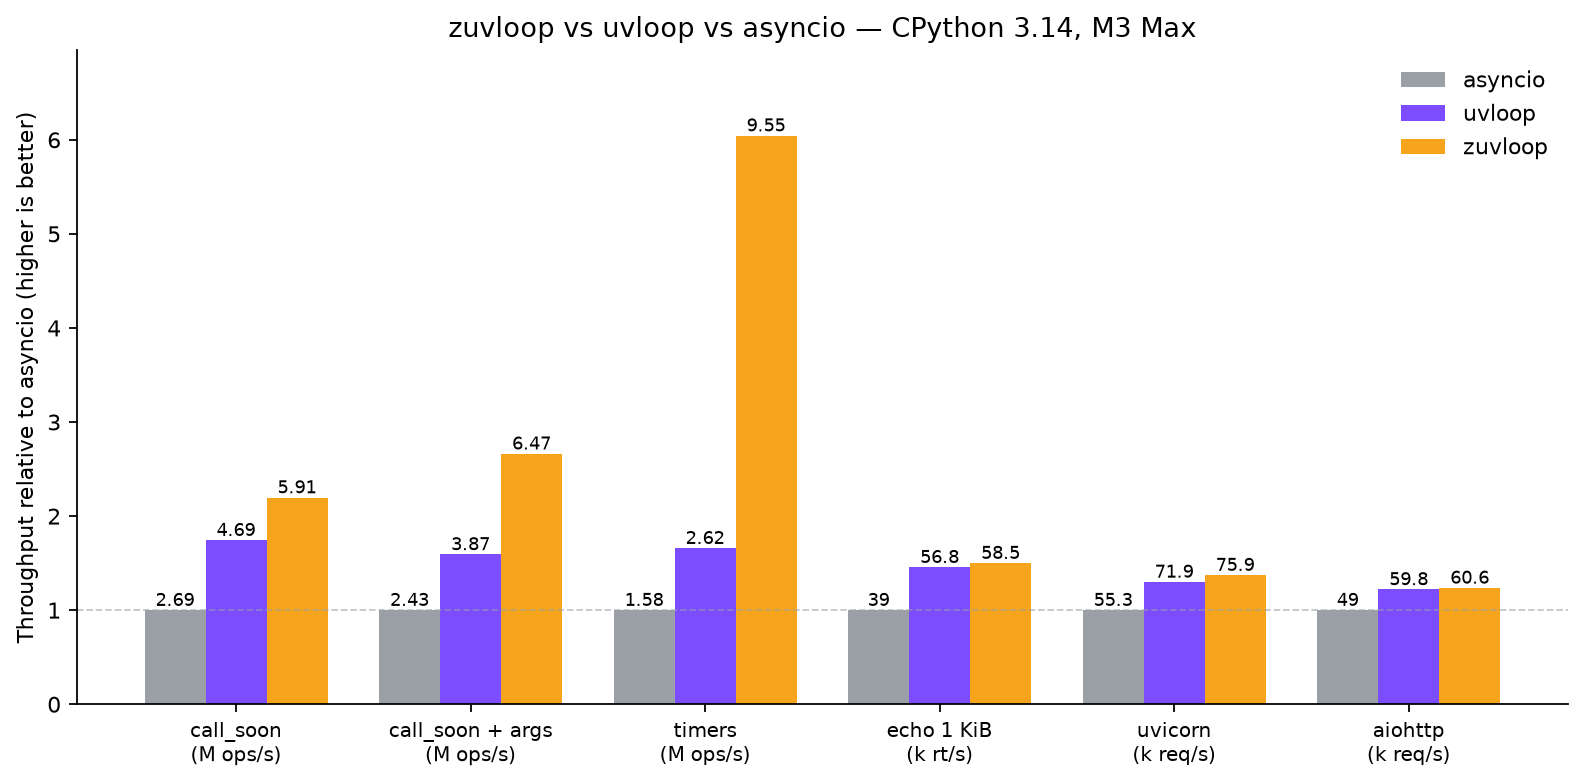
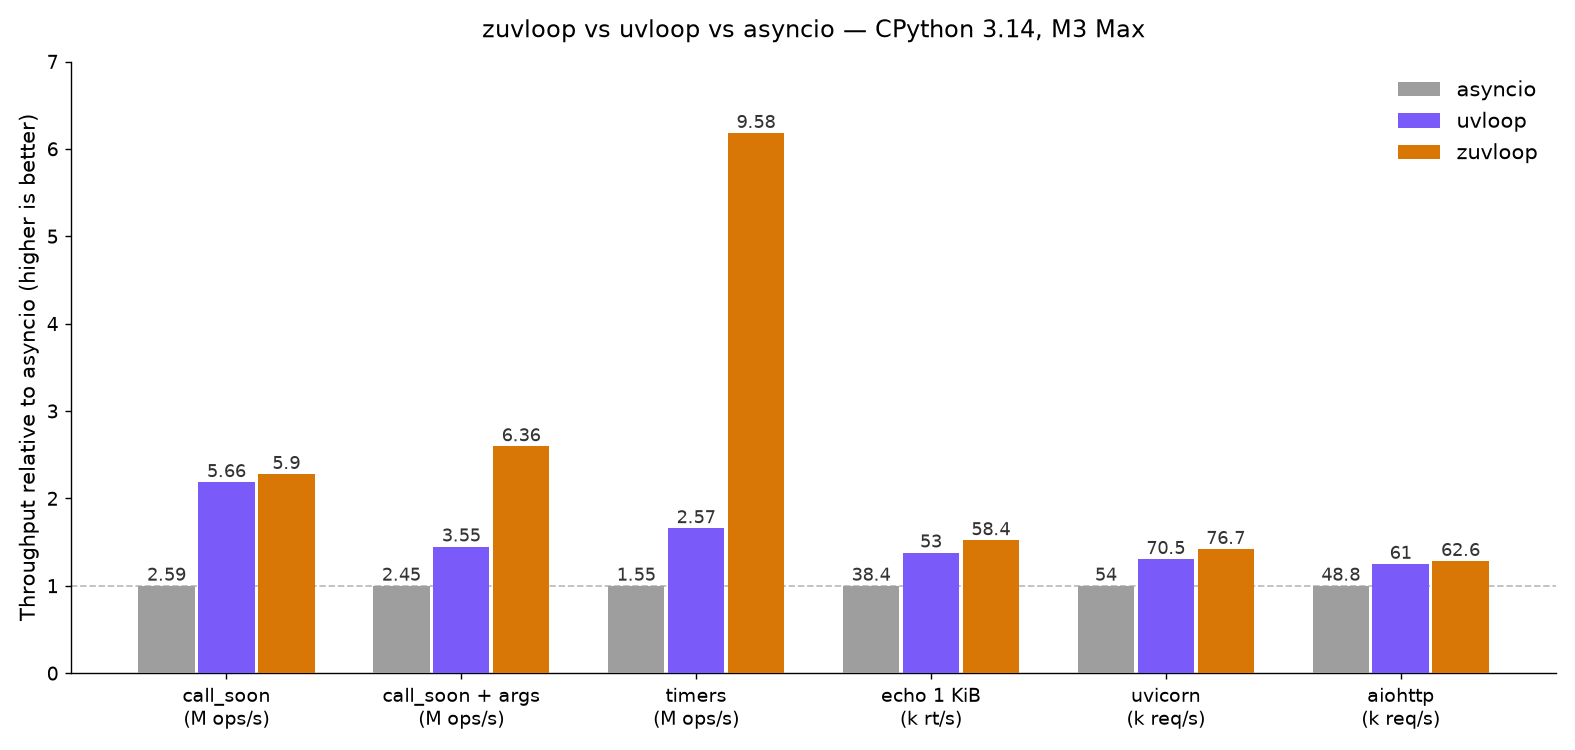
Refresh the README benchmarks and restore the harness behind them (#44)
* Refresh the README benchmarks and restore the harness behind them

Remeasured on the same machine as before - M3 Max, macOS 26, CPython
3.14.3, libuv 1.51.0. Every row moved: zuvloop still leads all of them,
and the table gains call_soon_threadsafe, where the native handle from
#42 puts zuvloop at 6.51M/s against uvloop's 5.06M/s and asyncio's
0.44M/s.

The absolute numbers come from benchmarks/run.py, which the README's
development section still pointed at after it was deleted for CodSpeed.
It returns with a call_soon_threadsafe bench and a docstring saying
what it answers that compare.py and CodSpeed do not: operations per
second a reader can hold against another machine.

* Reject a repeat count below one

Changed region(s): [[0.0, 0.0613, 0.9956, 0.9813], [0.28, 0.0, 0.7467, 0.0613], [0.8711, 0.092, 0.9956, 0.2147]]

diff --git a/benchmarks/run.py b/benchmarks/run.py
@@ -1,0 +1,303 @@
+"""Absolute throughput per loop - the numbers behind the README table.
+
+    uv run --group bench python benchmarks/run.py
+    uv run --group bench python benchmarks/run.py --only call_soon timers
+
+`compare.py` answers "how does this compare to uvloop" with interleaved wall
+times, and CodSpeed tracks what changed between commits. Neither reports the
+operations per second a reader can hold against another machine, which is what
+the README publishes; this is the harness that produces them. The HTTP rows
+come from `uvicorn_bench.py` and `aiohttp_bench.py`, which need a server
+process and `oha`.
+"""
+
+from __future__ import annotations
+
+import argparse
+import asyncio
+import os
+import socket
+import statistics
+import sys
+import threading
+import time
+from collections.abc import Callable, Coroutine
+
+import zuvloop
+
+Factory = Callable[[], asyncio.AbstractEventLoop]
+Benchmark = Callable[[], Coroutine[None, None, float]]
+
+
+def loop_factories() -> dict[str, Factory]:
+    factories: dict[str, Factory] = {"asyncio": asyncio.new_event_loop, "zuvloop": zuvloop.new_event_loop}
+    try:
+        import uvloop
+    except ImportError:
+        return factories
+    factories["uvloop"] = uvloop.new_event_loop
+    return factories
+
+
+def run_on(factory: Factory, benchmark: Benchmark) -> float:
+    loop = factory()
+    try:
+        return loop.run_until_complete(benchmark())
+    finally:
+        loop.close()
+
+
+def _noop() -> None:
+    pass
+
+
+async def bench_call_soon(iterations: int = 200_000) -> float:
+    """Dispatch cost: a full batch scheduled, then drained in one go."""
+    loop = asyncio.get_running_loop()
+    done = loop.create_future()
+    seen = 0
+
+    def step() -> None:
+        nonlocal seen
+        seen += 1
+        if seen == iterations:
+            done.set_result(None)
+
+    started = time.perf_counter()
+    for _ in range(iterations):
+        loop.call_soon(step)
+    await done
+    return iterations / (time.perf_counter() - started)
+
+
+async def bench_call_soon_args(iterations: int = 200_000) -> float:
+    """Same, with arguments - asyncio packs these into a tuple per call."""
+    loop = asyncio.get_running_loop()
+    done = loop.create_future()
+    seen = 0
+
+    def step(_a: int, _b: int, _c: int) -> None:
+        nonlocal seen
+        seen += 1
+        if seen == iterations:
+            done.set_result(None)
+
+    started = time.perf_counter()
+    for _ in range(iterations):
+        loop.call_soon(step, 1, 2, 3)
+    await done
+    return iterations / (time.perf_counter() - started)
+
+
+async def bench_call_soon_threadsafe(iterations: int = 200_000) -> float:
+    """Cross-thread dispatch: a worker thread schedules the whole batch."""
+    loop = asyncio.get_running_loop()
+    done = loop.create_future()
+    started = 0.0
+
+    def worker() -> None:
+        nonlocal started
+        started = time.perf_counter()
+        for _ in range(iterations):
+            loop.call_soon_threadsafe(_noop)
+        loop.call_soon_threadsafe(done.set_result, None)
+
+    thread = threading.Thread(target=worker)
+    thread.start()
+    await done
+    elapsed = time.perf_counter() - started
+    thread.join()
+    return iterations / elapsed
+
+
+async def bench_timers(iterations: int = 200_000) -> float:
+    """Timer churn: schedule then cancel, never firing."""
+    loop = asyncio.get_running_loop()
+    started = time.perf_counter()
+    for _ in range(iterations):
+        loop.call_later(30, _noop).cancel()
+    return iterations / (time.perf_counter() - started)
+
+
+async def bench_sleep_zero(iterations: int = 30_000) -> float:
+    """Loop iterations per second: one callback per turn, poll included."""
+    started = time.perf_counter()
+    for _ in range(iterations):
+        await asyncio.sleep(0)
+    return iterations / (time.perf_counter() - started)
+
+
+async def bench_echo(payload_size: int = 1024, roundtrips: int = 50_000) -> float:
+    """Protocol round trips over a loopback TCP connection."""
+    loop = asyncio.get_running_loop()
+    payload = os.urandom(payload_size)
+
+    class EchoServer(asyncio.Protocol):
+        def connection_made(self, transport: asyncio.BaseTransport) -> None:
+            self.transport = transport
+
+        def data_received(self, data: bytes) -> None:
+            self.transport.write(data)  # type: ignore[attr-defined]
+
+    class EchoClient(asyncio.Protocol):
+        def __init__(self) -> None:
+            self.pending = 0
+            self.remaining = roundtrips
+            self.done = loop.create_future()
+
+        def connection_made(self, transport: asyncio.BaseTransport) -> None:
+            self.transport = transport
+            transport.write(payload)  # type: ignore[attr-defined]
+
+        def data_received(self, data: bytes) -> None:
+            self.pending += len(data)
+            while self.pending >= payload_size:
+                self.pending -= payload_size
+                self.remaining -= 1
+                if self.remaining == 0:
+                    self.done.set_result(None)
+                    return
+                self.transport.write(payload)  # type: ignore[attr-defined]
+
+    server = await loop.create_server(EchoServer, "127.0.0.1", 0)
+    port = server.sockets[0].getsockname()[1]
+    started = time.perf_counter()
+    transport, client = await loop.create_connection(EchoClient, "127.0.0.1", port)
+    await client.done
+    elapsed = time.perf_counter() - started
+    transport.close()
+    server.close()
+    await server.wait_closed()
+    return roundtrips / elapsed
+
+
+async def bench_stream(total: int = 512 << 20) -> float:
+    """Bulk transfer in bytes per second, with flow control engaged."""
+    loop = asyncio.get_running_loop()
+    chunk = b"x" * 65536
+    sinks: list[Sink] = []
+
+    class Sink(asyncio.Protocol):
+        def __init__(self) -> None:
+            self.received = 0
+            self.done = loop.create_future()
+            sinks.append(self)
+
+        def data_received(self, data: bytes) -> None:
+            self.received += len(data)
+            if self.received >= total and not self.done.done():
+                self.done.set_result(None)
+
+    server = await loop.create_server(Sink, "127.0.0.1", 0)
+    port = server.sockets[0].getsockname()[1]
+    transport, _protocol = await loop.create_connection(asyncio.Protocol, "127.0.0.1", port)
+
+    started = time.perf_counter()
+    sent = 0
+    while sent < total:
+        transport.write(chunk)
+        sent += len(chunk)
+        if transport.get_write_buffer_size() > (4 << 20):
+            await asyncio.sleep(0)
+    await sinks[0].done
+    elapsed = time.perf_counter() - started
+
+    transport.close()
+    server.close()
+    await server.wait_closed()
+    return total / elapsed
+
+
+async def bench_getaddrinfo(iterations: int = 5_000) -> float:
+    """Resolution rate; zuvloop resolves on libuv's threadpool, not the executor."""
+    loop = asyncio.get_running_loop()
+    started = time.perf_counter()
+    for _ in range(iterations):
+        await loop.getaddrinfo("127.0.0.1", 80, type=socket.SOCK_STREAM)
+    return iterations / (time.perf_counter() - started)
+
+
+async def bench_process_spawn(iterations: int = 250) -> float:
+    """Spawn and reap a minimal process with no pipe traffic."""
+    started = time.perf_counter()
+    for _ in range(iterations):
+        process = await asyncio.create_subprocess_exec(
+            "/usr/bin/true",
+            stdin=asyncio.subprocess.DEVNULL,
+            stdout=asyncio.subprocess.DEVNULL,
+            stderr=asyncio.subprocess.DEVNULL,
+        )
+        if await process.wait() != 0:
+            raise RuntimeError("subprocess exited unsuccessfully")
+    return iterations / (time.perf_counter() - started)
+
+
+async def bench_process_pipe(repetitions: int = 12, payload_size: int = 4 << 20) -> float:
+    """Round-trip bytes through a subprocess's stdin and stdout pipes."""
+    payload = b"p" * payload_size
+    started = time.perf_counter()
+    for _ in range(repetitions):
+        process = await asyncio.create_subprocess_exec(
+            "/bin/cat",
+            stdin=asyncio.subprocess.PIPE,
+            stdout=asyncio.subprocess.PIPE,
+            stderr=asyncio.subprocess.DEVNULL,
+        )
+        stdout, _stderr = await process.communicate(payload)
+        if process.returncode != 0 or stdout != payload:
+            raise RuntimeError("subprocess pipe corrupted its payload")
+    return repetitions * payload_size / (time.perf_counter() - started)
+
+
+BENCHMARKS: dict[str, tuple[Benchmark, str]] = {
+    "call_soon": (bench_call_soon, "callbacks/s"),
+    "call_soon_args": (bench_call_soon_args, "callbacks/s"),
+    "call_soon_threadsafe": (bench_call_soon_threadsafe, "callbacks/s"),
+    "timers": (bench_timers, "timers/s"),
+    "sleep_zero": (bench_sleep_zero, "iterations/s"),
+    "echo_1kb": (bench_echo, "roundtrips/s"),
+    "stream": (bench_stream, "bytes/s"),
+    "getaddrinfo": (bench_getaddrinfo, "lookups/s"),
+    "process_spawn": (bench_process_spawn, "processes/s"),
+    "process_pipe": (bench_process_pipe, "bytes/s"),
+}
+
+
+def humanise(value: float, unit: str) -> str:
+    if unit == "bytes/s":
+        return f"{value / (1 << 20):>12,.0f} MiB/s"
+    return f"{value:>15,.0f} {unit}"
+
+
+def main() -> int:
+    parser = argparse.ArgumentParser(description="Compare zuvloop against asyncio and uvloop.")
+    parser.add_argument("--repeat", type=int, default=3, help="runs per benchmark; the best is reported")
+    parser.add_argument("--only", nargs="*", choices=sorted(BENCHMARKS), help="benchmarks to run")
+    args = parser.parse_args()
+    if args.repeat < 1:
+        parser.error("--repeat must be at least 1")
+
+    factories = loop_factories()
+    baseline = "uvloop" if "uvloop" in factories else "asyncio"
+    print(f"python {sys.version.split()[0]}   libuv {zuvloop.libuv_version()}\n")
+
+    for name in args.only or list(BENCHMARKS):
+        benchmark, unit = BENCHMARKS[name]
+        print(name)
+        # Interleave the rounds. Running every sample for one loop back to back
+        # lets thermal drift and background load bias whichever went first.
+        samples: dict[str, list[float]] = {label: [] for label in factories}
+        for _ in range(args.repeat):
+            for label, factory in factories.items():
+                samples[label].append(run_on(factory, benchmark))
+
+        results = {label: max(values) for label, values in samples.items()}
+        for label, value in results.items():
+            spread = statistics.pstdev(samples[label]) / value if len(samples[label]) > 1 else 0.0
+            print(f"  {label:<8}{humanise(value, unit)}  (+/- {spread:.1%})")
+        print(f"  {'':<8}{'zuvloop / ' + baseline:>15}  {results['zuvloop'] / results[baseline]:.2f}x\n")
+    return 0
+
+
+if __name__ == "__main__":
+    raise SystemExit(main())

diff --git a/README.md b/README.md
@@ -35,16 +35,17 @@ Throughput relative to stock asyncio (higher is better), measured with the suite
 
 | Benchmark | asyncio | uvloop | zuvloop |
 | --- | ---: | ---: | ---: |
-| `call_soon` | 2.69M/s | 4.69M/s | **5.91M/s** |
-| `call_soon` with arguments | 2.43M/s | 3.87M/s | **6.47M/s** |
-| timer schedule + cancel | 1.58M/s | 2.62M/s | **9.55M/s** |
-| bulk stream | 8.4 GiB/s | 8.5 GiB/s | **10.2 GiB/s** |
-| echo round trips, 1 KiB | 39.0k/s | 56.8k/s | **58.5k/s** |
-| uvicorn, plaintext | 55.3k req/s | 71.9k req/s | **75.9k req/s** |
-| uvicorn, 10 KiB body | 52.6k req/s | 68.7k req/s | **73.6k req/s** |
-| aiohttp server | 49.0k req/s | 59.8k req/s | **60.6k req/s** |
-| aiohttp client | 13.2k req/s | 16.2k req/s | **16.9k req/s** |
-| `getaddrinfo`, numeric host | 28.5k/s | 1.57M/s | **1.90M/s** |
+| `call_soon` | 2.59M/s | 5.66M/s | **5.90M/s** |
+| `call_soon` with arguments | 2.45M/s | 3.55M/s | **6.36M/s** |
+| `call_soon_threadsafe` | 0.44M/s | 5.06M/s | **6.51M/s** |
+| timer schedule + cancel | 1.55M/s | 2.57M/s | **9.58M/s** |
+| bulk stream | 8.6 GiB/s | 9.0 GiB/s | **10.7 GiB/s** |
+| echo round trips, 1 KiB | 38.4k/s | 53.0k/s | **58.4k/s** |
+| uvicorn, plaintext | 54.0k req/s | 70.5k req/s | **76.7k req/s** |
+| uvicorn, 10 KiB body | 51.6k req/s | 69.5k req/s | **74.2k req/s** |
+| aiohttp server | 48.8k req/s | 61.0k req/s | **62.6k req/s** |
+| aiohttp client | 13.4k req/s | 16.6k req/s | **16.9k req/s** |
+| `getaddrinfo`, numeric host | 28.3k/s | 1.58M/s | **1.91M/s** |
 
 Curious how? The [architecture docs](https://zuvloop.marcelotryle.com) explain the design:
 argument storage inside handles (no tuple per callback), a native timer heap behind a single
